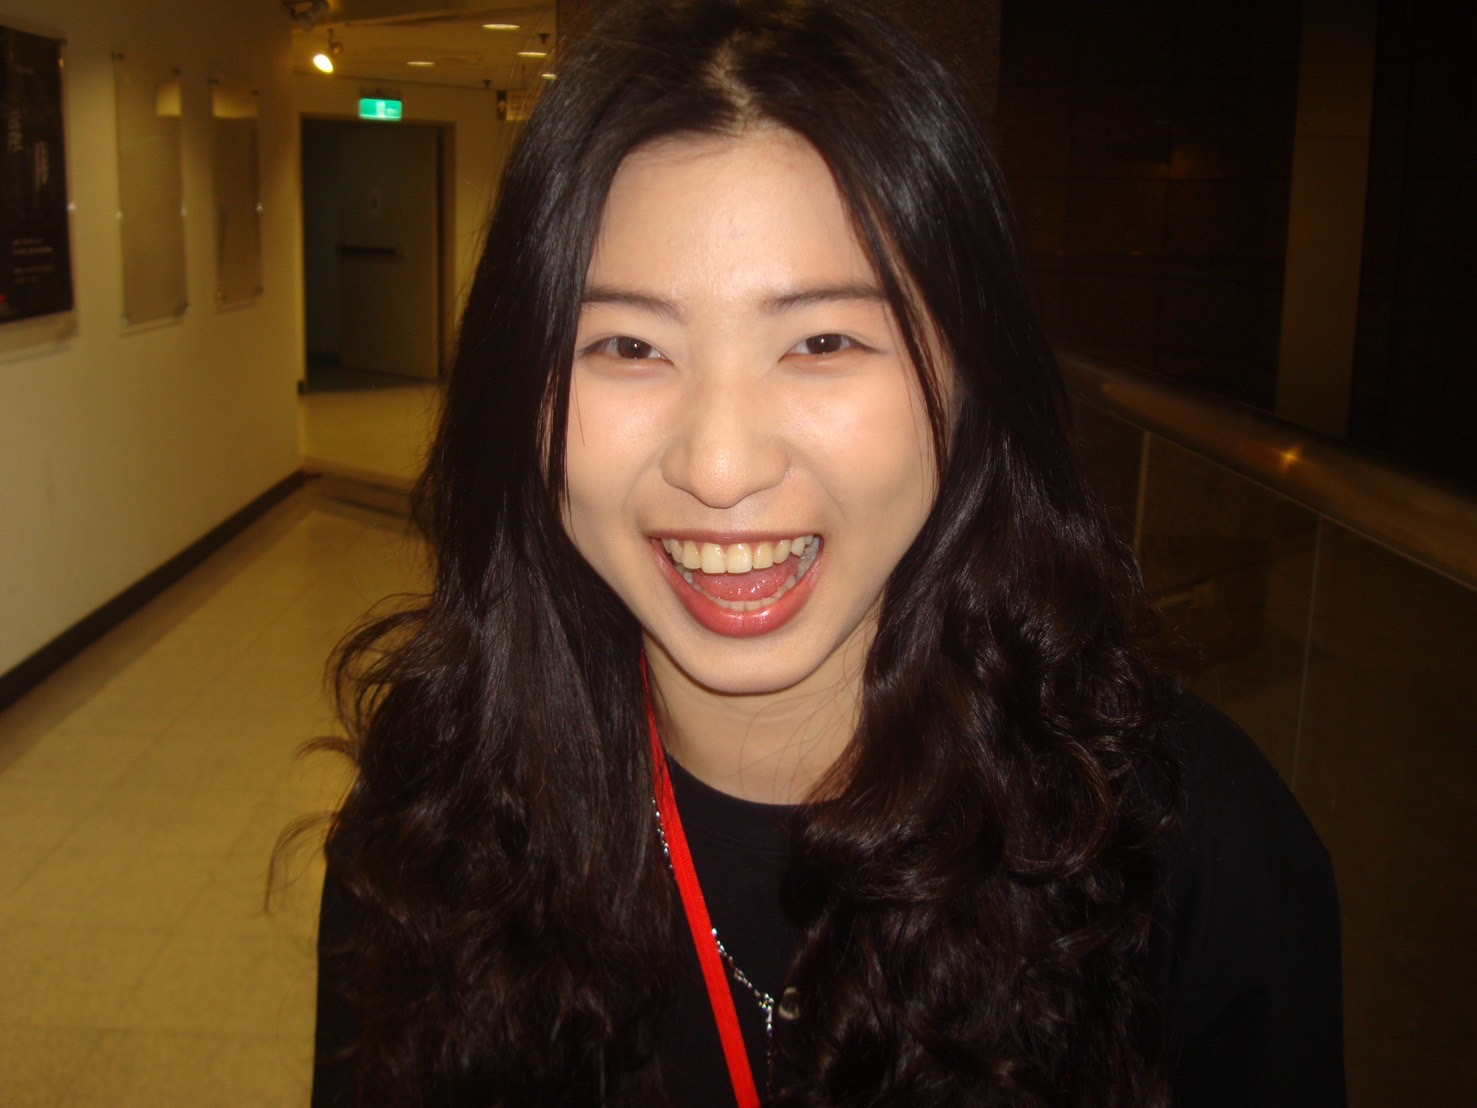
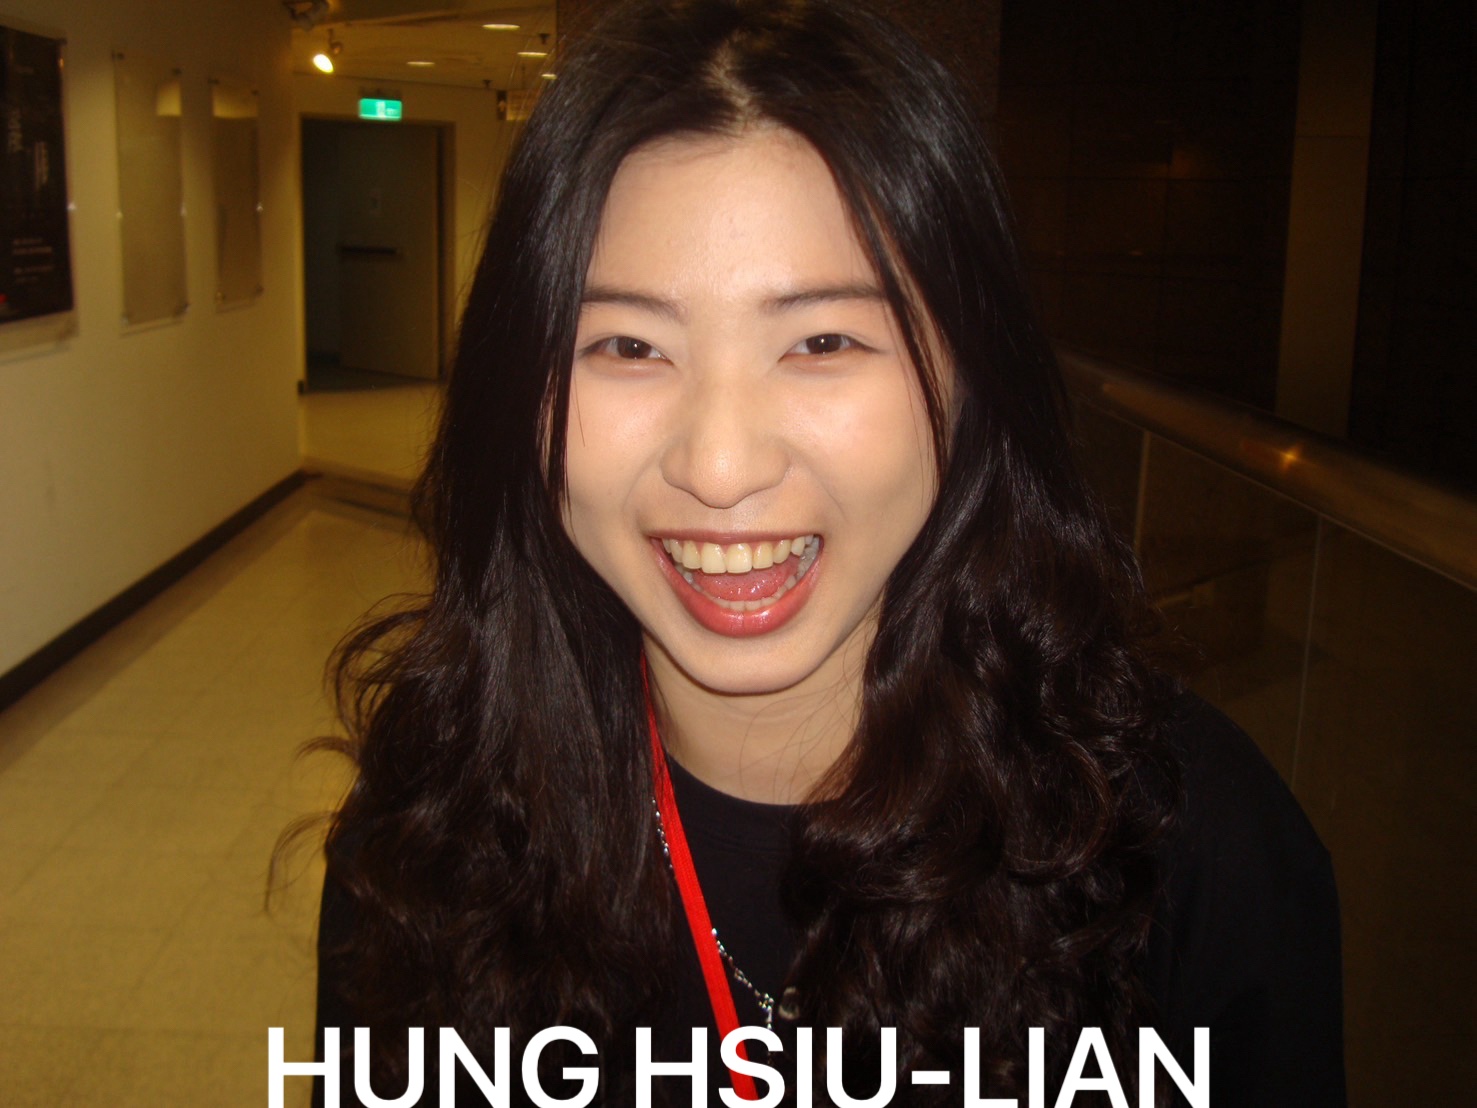
feat:HW1

Changed region(s): [[0.1557, 0.9206, 0.8409, 1.0]]

diff --git a/app/about/page.tsx b/app/about/page.tsx
@@ -1,10 +1,61 @@
+import PixelTransition from '@/components/PixelTransition';
+
 export default function AboutPage() {
   return (
     <div className="w-full h-full overflow-y-auto p-6 ">
       <div className="grid grid-cols-4 auto-rows-[120px] gap-6">
-        <div className="col-span-2 row-span-4 rounded-3xl bg-white flex items-center justify-center">
-          01
+        
+        <div className="col-span-2 row-span-4 rounded-3xl overflow-hidden bg-white">
+          <PixelTransition
+            firstContent={
+              <img
+                src="/me.JPG"
+                alt="me!"
+                style={{ width: "100%", height: "100%", objectFit: "cover" }}
+              />
+
+            }
+            secondContent={
+              <div
+                style={{
+                  width: "100%",
+                  height: "100%",
+                  display: "flex",
+                  flexDirection: "column",
+                  justifyContent: "space-between",
+                  alignItems: "center",
+                  padding: "32px",
+                  backgroundColor: "#111",
+                  color: "#fff"
+                }}>
+
+                <div
+                      style={{
+                        flex: 1,
+                        display: "flex",
+                        alignItems: "center",
+                        justifyContent: "center",
+                        width: "100%"
+                      }}>
+                      <p style={{ fontWeight: 900, fontSize: "3rem", margin: 0 }}>
+                        HELLO!
+                      </p>
+                  </div>
+            
+                  <p
+                    style={{fontWeight: 900, fontSize: "1rem", textAlign: "center", margin: 0 }}>
+                    想要賺很多錢，環遊世界、當有錢米蟲
+                  </p>
+              </div>
+            }
+            gridSize={8}
+            pixelColor='#ffffff'
+            once={false}
+            animationStepDuration={0.4}
+            className="w-full h-full rounded-none"
+          />
         </div>
+
 
         <div className="col-span-2 row-span-2 col-start-3 row-start-1 rounded-3xl bg-white flex items-center justify-center">
           02
@@ -17,7 +68,11 @@ export default function AboutPage() {
         <div className="col-span-4 row-span-2 row-start-5 rounded-3xl bg-white flex items-center justify-center">
           04
         </div>
+
+        
       </div>
     </div>
   );
 }
+
+

diff --git a/components/PixelTransition.jsx b/components/PixelTransition.jsx
@@ -9,7 +9,7 @@ function PixelTransition({
   gridSize = 7,
   pixelColor = 'currentColor',
   animationStepDuration = 0.3,
-  aspectRatio = '100%',
+  aspectRatio = null,
   className = '',
   once = false,
   style = {}
@@ -22,7 +22,10 @@ function PixelTransition({
   const [isActive, setIsActive] = useState(false);
 
   const isTouchDevice =
-    'ontouchstart' in window || navigator.maxTouchPoints > 0 || window.matchMedia('(pointer: coarse)').matches;
+  typeof window !== 'undefined' &&
+  ('ontouchstart' in window ||
+    navigator.maxTouchPoints > 0 ||
+    window.matchMedia('(pointer: coarse)').matches);
 
   useEffect(() => {
     const pixelGridEl = pixelGridRef.current;
@@ -108,16 +111,11 @@ function PixelTransition({
     <div
       ref={containerRef}
       className={`
-        ${className}
-        bg-[#271E37]
-        text-white
-        rounded-[15px]
-        border-2
-        border-white
-        w-[300px]
-        max-w-full
         relative
+        w-full
+        h-full
         overflow-hidden
+        ${className}
       `}
       style={style}
       onMouseEnter={!isTouchDevice ? handleEnter : undefined}
@@ -125,9 +123,9 @@ function PixelTransition({
       onClick={isTouchDevice ? handleClick : undefined}
       onFocus={!isTouchDevice ? handleEnter : undefined}
       onBlur={!isTouchDevice ? handleLeave : undefined}
-      tabIndex={0}
-    >
-      <div style={{ paddingTop: aspectRatio }} />
+      tabIndex={0}>
+
+      {aspectRatio && <div style={{ paddingTop: aspectRatio }} />}
 
       <div className="absolute inset-0 w-full h-full" aria-hidden={isActive}>
         {firstContent}
@@ -137,12 +135,15 @@ function PixelTransition({
         ref={activeRef}
         className="absolute inset-0 w-full h-full z-[2]"
         style={{ display: 'none' }}
-        aria-hidden={!isActive}
-      >
+        aria-hidden={!isActive}>
         {secondContent}
       </div>
 
-      <div ref={pixelGridRef} className="absolute inset-0 w-full h-full pointer-events-none z-[3]" />
+      <div
+        ref={pixelGridRef}
+        className="absolute inset-0 w-full h-full pointer-events-none z-[3]"
+      />
+
     </div>
   );
 }
